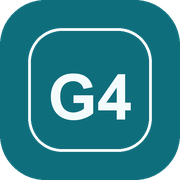
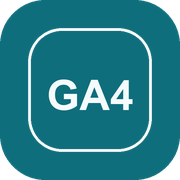
Fix brand mark to read GA4 instead of G4.
Regenerate icon, favicon, and OG assets so the mark matches the product name.

Changed region(s): [[0.25, 0.3889, 0.75, 0.6944]]

diff --git a/course/index.html b/course/index.html
@@ -18,7 +18,7 @@
   <link rel="preconnect" href="https://fonts.googleapis.com">
   <link rel="preconnect" href="https://fonts.gstatic.com" crossorigin>
   <link href="https://fonts.googleapis.com/css2?family=Fraunces:opsz,wght@9..144,500;9..144,650&family=IBM+Plex+Mono:wght@400;600&family=Source+Sans+3:wght@400;600;700&display=swap" rel="stylesheet">
-  <link rel="stylesheet" href="../css/site.css?v=20260802p">
+  <link rel="stylesheet" href="../css/site.css?v=20260802q">
 </head>
 <body class="course-page">
   <header class="site-header site-header-app" id="siteHeader"></header>
@@ -113,12 +113,12 @@
   </div>
 
   <footer class="site-footer course-footer-hidden" id="siteFooter" hidden></footer>
-  <script src="../js/app.js?v=20260802p"></script>
-  <script src="../js/tts.js?v=20260802p"></script>
-  <script src="../js/lightbox.js?v=20260802p"></script>
-  <script src="../js/diagrams-animate.js?v=20260802p"></script>
-  <script src="../js/render.js?v=20260802p"></script>
-  <script src="../js/course.js?v=20260802p"></script>
+  <script src="../js/app.js?v=20260802q"></script>
+  <script src="../js/tts.js?v=20260802q"></script>
+  <script src="../js/lightbox.js?v=20260802q"></script>
+  <script src="../js/diagrams-animate.js?v=20260802q"></script>
+  <script src="../js/render.js?v=20260802q"></script>
+  <script src="../js/course.js?v=20260802q"></script>
   <script>
     GA4.renderHeader('course');
     /* App shell: no landing footer */

diff --git a/resources/index.html b/resources/index.html
@@ -18,7 +18,7 @@
   <link rel="preconnect" href="https://fonts.googleapis.com">
   <link rel="preconnect" href="https://fonts.gstatic.com" crossorigin>
   <link href="https://fonts.googleapis.com/css2?family=Fraunces:opsz,wght@9..144,500;9..144,650&family=IBM+Plex+Mono:wght@400;600&family=Source+Sans+3:wght@400;600;700&display=swap" rel="stylesheet">
-  <link rel="stylesheet" href="../css/site.css?v=20260802p">
+  <link rel="stylesheet" href="../css/site.css?v=20260802q">
 </head>
 <body>
   <header class="site-header" id="siteHeader"></header>
@@ -48,11 +48,11 @@
     </div>
   </main>
   <footer class="site-footer" id="siteFooter"></footer>
-  <script src="../js/app.js?v=20260802p"></script>
-  <script src="../js/tts.js?v=20260802p"></script>
-  <script src="../js/lightbox.js?v=20260802p"></script>
-  <script src="../js/diagrams-animate.js?v=20260802p"></script>
-  <script src="../js/render.js?v=20260802p"></script>
+  <script src="../js/app.js?v=20260802q"></script>
+  <script src="../js/tts.js?v=20260802q"></script>
+  <script src="../js/lightbox.js?v=20260802q"></script>
+  <script src="../js/diagrams-animate.js?v=20260802q"></script>
+  <script src="../js/render.js?v=20260802q"></script>
   <script>
     GA4.renderHeader('resources');
     GA4.renderFooter();

diff --git a/settings/index.html b/settings/index.html
@@ -18,7 +18,7 @@
   <link rel="preconnect" href="https://fonts.googleapis.com">
   <link rel="preconnect" href="https://fonts.gstatic.com" crossorigin>
   <link href="https://fonts.googleapis.com/css2?family=Fraunces:opsz,wght@9..144,500;9..144,650&family=IBM+Plex+Mono:wght@400;600&family=Source+Sans+3:wght@400;600;700&display=swap" rel="stylesheet">
-  <link rel="stylesheet" href="../css/site.css?v=20260802p">
+  <link rel="stylesheet" href="../css/site.css?v=20260802q">
 </head>
 <body>
   <header class="site-header" id="siteHeader"></header>
@@ -88,9 +88,9 @@
     </div>
   </main>
   <footer class="site-footer" id="siteFooter"></footer>
-  <script src="../js/app.js?v=20260802p"></script>
-  <script src="../js/tts.js?v=20260802p"></script>
-  <script src="../js/coach.js?v=20260802p"></script>
+  <script src="../js/app.js?v=20260802q"></script>
+  <script src="../js/tts.js?v=20260802q"></script>
+  <script src="../js/coach.js?v=20260802q"></script>
   <script>
     GA4.renderHeader('settings');
     GA4.renderFooter();

diff --git a/coach/index.html b/coach/index.html
@@ -18,7 +18,7 @@
   <link rel="preconnect" href="https://fonts.googleapis.com">
   <link rel="preconnect" href="https://fonts.gstatic.com" crossorigin>
   <link href="https://fonts.googleapis.com/css2?family=Fraunces:opsz,wght@9..144,500;9..144,650&family=IBM+Plex+Mono:wght@400;600&family=Source+Sans+3:wght@400;600;700&display=swap" rel="stylesheet">
-  <link rel="stylesheet" href="../css/site.css?v=20260802p">
+  <link rel="stylesheet" href="../css/site.css?v=20260802q">
 </head>
 <body>
   <header class="site-header" id="siteHeader"></header>
@@ -78,9 +78,9 @@
     </div>
   </main>
   <footer class="site-footer" id="siteFooter"></footer>
-  <script src="../js/app.js?v=20260802p"></script>
-  <script src="../js/tts.js?v=20260802p"></script>
-  <script src="../js/coach.js?v=20260802p"></script>
+  <script src="../js/app.js?v=20260802q"></script>
+  <script src="../js/tts.js?v=20260802q"></script>
+  <script src="../js/coach.js?v=20260802q"></script>
   <script>
     GA4.renderHeader('coach');
     GA4.renderFooter();

diff --git a/academy/index.html b/academy/index.html
@@ -18,7 +18,7 @@
   <link rel="preconnect" href="https://fonts.googleapis.com">
   <link rel="preconnect" href="https://fonts.gstatic.com" crossorigin>
   <link href="https://fonts.googleapis.com/css2?family=Fraunces:opsz,wght@9..144,500;9..144,650&family=IBM+Plex+Mono:wght@400;600&family=Source+Sans+3:wght@400;600;700&display=swap" rel="stylesheet">
-  <link rel="stylesheet" href="../css/site.css?v=20260802p">
+  <link rel="stylesheet" href="../css/site.css?v=20260802q">
 </head>
 <body>
   <header class="site-header" id="siteHeader"></header>
@@ -41,8 +41,8 @@
     </div>
   </main>
   <footer class="site-footer" id="siteFooter"></footer>
-  <script src="../js/app.js?v=20260802p"></script>
-  <script src="../js/render.js?v=20260802p"></script>
+  <script src="../js/app.js?v=20260802q"></script>
+  <script src="../js/render.js?v=20260802q"></script>
   <script>
     GA4.renderHeader('academy');
     GA4.renderFooter();

diff --git a/skill/index.html b/skill/index.html
@@ -18,7 +18,7 @@
   <link rel="preconnect" href="https://fonts.googleapis.com">
   <link rel="preconnect" href="https://fonts.gstatic.com" crossorigin>
   <link href="https://fonts.googleapis.com/css2?family=Fraunces:opsz,wght@9..144,500;9..144,650&family=IBM+Plex+Mono:wght@400;600&family=Source+Sans+3:wght@400;600;700&display=swap" rel="stylesheet">
-  <link rel="stylesheet" href="../css/site.css?v=20260802p">
+  <link rel="stylesheet" href="../css/site.css?v=20260802q">
 </head>
 <body class="skill-page">
   <header class="site-header" id="siteHeader"></header>
@@ -78,7 +78,7 @@
     </div>
   </main>
   <footer class="site-footer" id="siteFooter"></footer>
-  <script src="../js/app.js?v=20260802p"></script>
+  <script src="../js/app.js?v=20260802q"></script>
   <script>
     GA4.renderHeader('skill');
     GA4.renderFooter();

diff --git a/index.html b/index.html
@@ -21,7 +21,7 @@
   <link rel="preconnect" href="https://fonts.googleapis.com">
   <link rel="preconnect" href="https://fonts.gstatic.com" crossorigin>
   <link href="https://fonts.googleapis.com/css2?family=Fraunces:opsz,wght@9..144,500;9..144,650&family=IBM+Plex+Mono:wght@400;600&family=Source+Sans+3:wght@400;600;700&display=swap" rel="stylesheet">
-  <link rel="stylesheet" href="css/site.css?v=20260802p">
+  <link rel="stylesheet" href="css/site.css?v=20260802q">
   <script type="application/ld+json">
   {
     "@context": "https://schema.org",
@@ -266,7 +266,7 @@
     </section>
   </main>
   <footer class="site-footer" id="siteFooter"></footer>
-  <script src="js/app.js?v=20260802p"></script>
+  <script src="js/app.js?v=20260802q"></script>
   <script>
     GA4.renderHeader('home');
     GA4.renderFooter();

diff --git a/js/app.js b/js/app.js
@@ -220,7 +220,7 @@
     if (!el) return;
     el.innerHTML = `
       <a class="brand" href="${asset('index.html')}">
-        <img class="brand-mark-img" src="${asset('assets/brand/icon.svg')}" width="36" height="36" alt="" />
+        <img class="brand-mark-img" src="${asset('assets/brand/icon.svg?v=20260802q')}" width="36" height="36" alt="GA4" />
         <div class="brand-text">
           <strong>GA4 Desk</strong>
           <span>Guidebook · Course · Skill</span>
